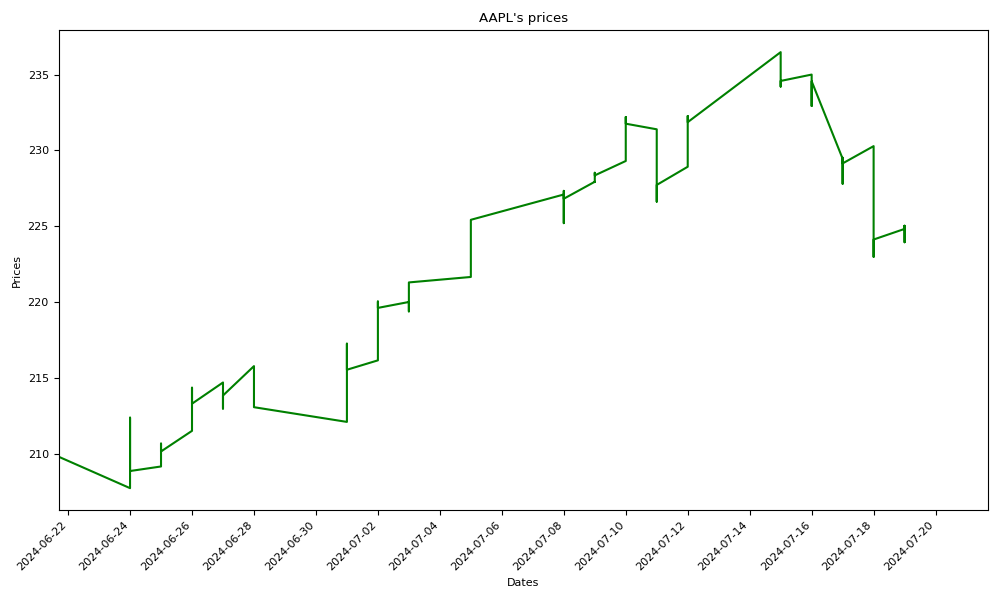
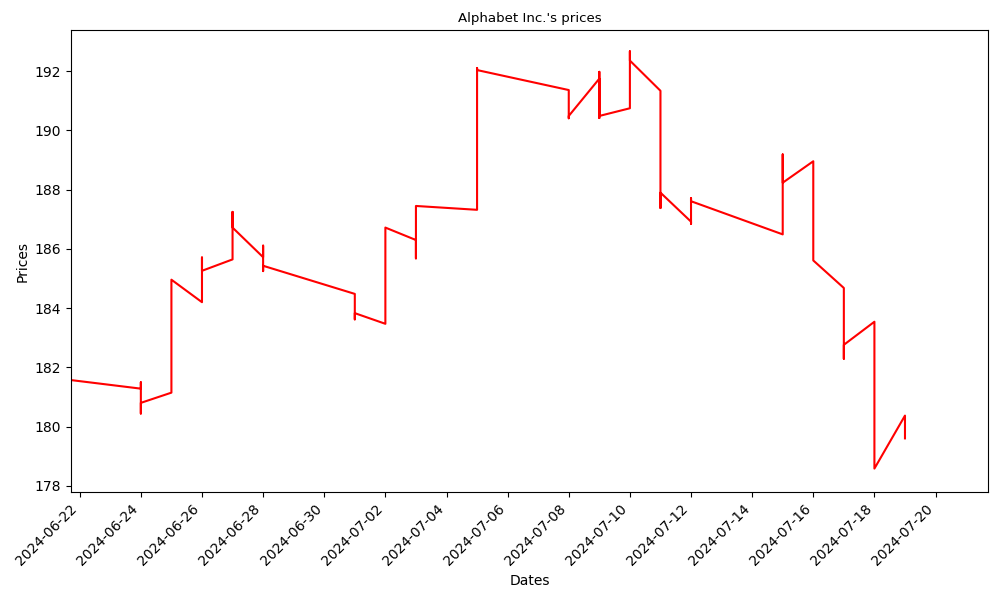
my final touches on the graph

diff --git a/main.py b/main.py
@@ -176,7 +176,7 @@ def stockApiCall(nameOfCompany, option):
 
 
 # function to make line graph from the time and quotes of a company
-def graphData(independant, dependant, companyName, prices):
+def graphData(independant, dependant, symbolName, prices, companyName):
 
     # print(f"PRICES ARE {prices}")
     matplotlib.use('qtagg')
@@ -301,6 +301,12 @@ def name_to_graph(companySymbol):
 
     changeInPrice = getPriceChange(companySymbol)
 
+    profileJson = stockApiCall(companySymbol, 1)
+    
+    profileDF = pd.json_normalize(profileJson)
+
+    # print(profileDF)
+
     prices = pd.json_normalize(changeInPrice)
 
     df = pd.json_normalize(quoteJson)
@@ -313,8 +319,9 @@ def name_to_graph(companySymbol):
 
     # print(df['date'].tail(5))
 
-
-    graphData(df['date'],df['open'], companySymbol, prices)
+    companyName = profileDF['name'][0]
+    print(f"NAME IS {companyName}")
+    graphData(df['date'],df['open'], companySymbol, prices, companyName)
 
 #Setting up the database
 conn=sqlite3.connect('personal-portfolio.db',check_same_thread=False)
